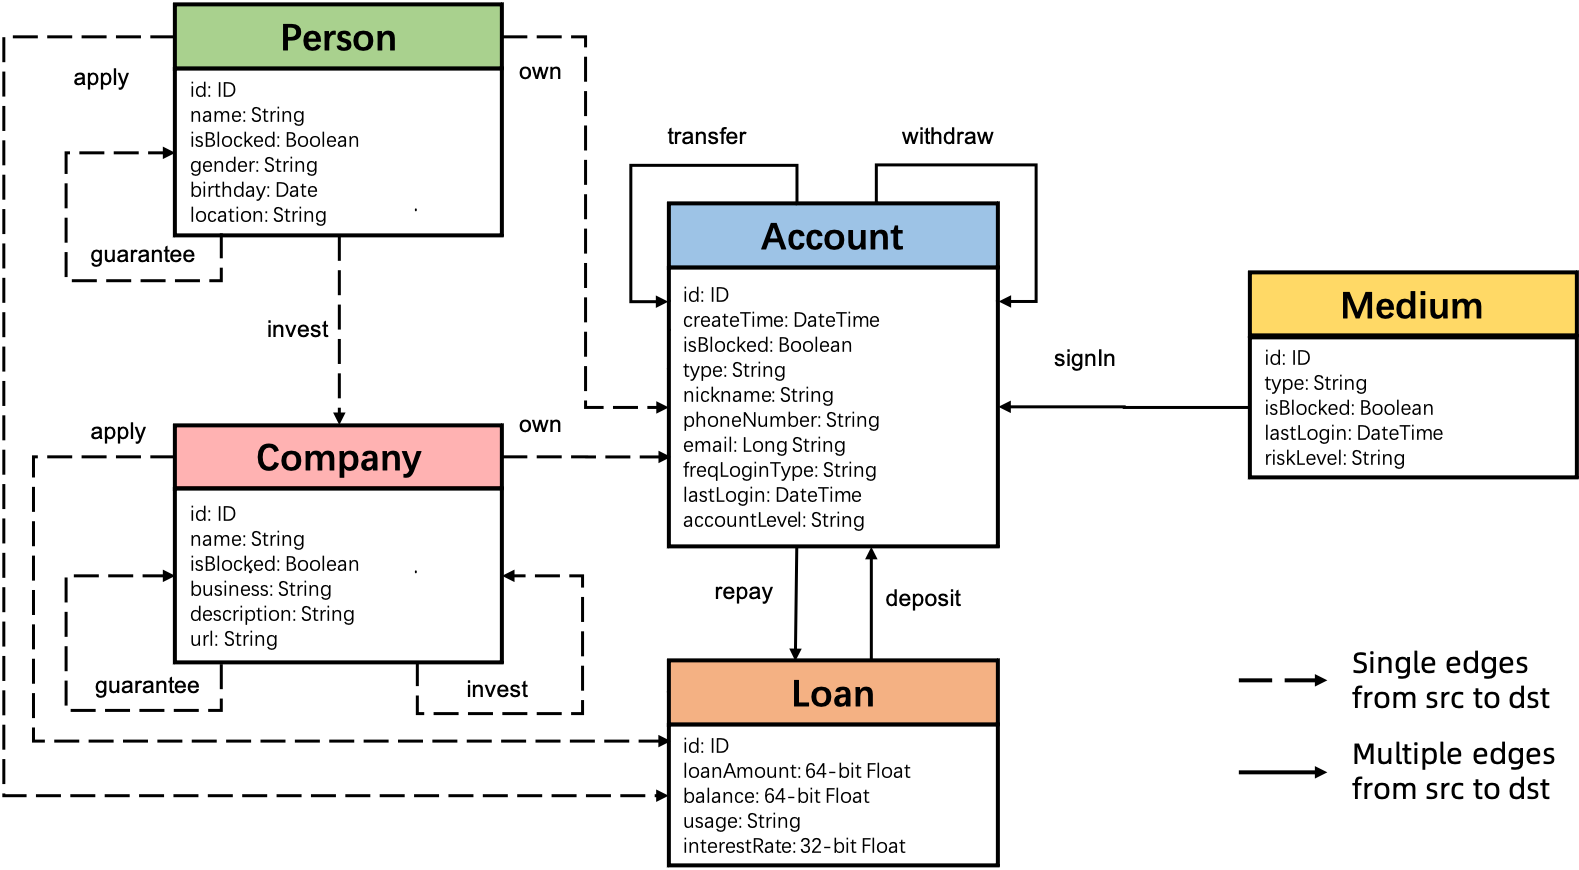
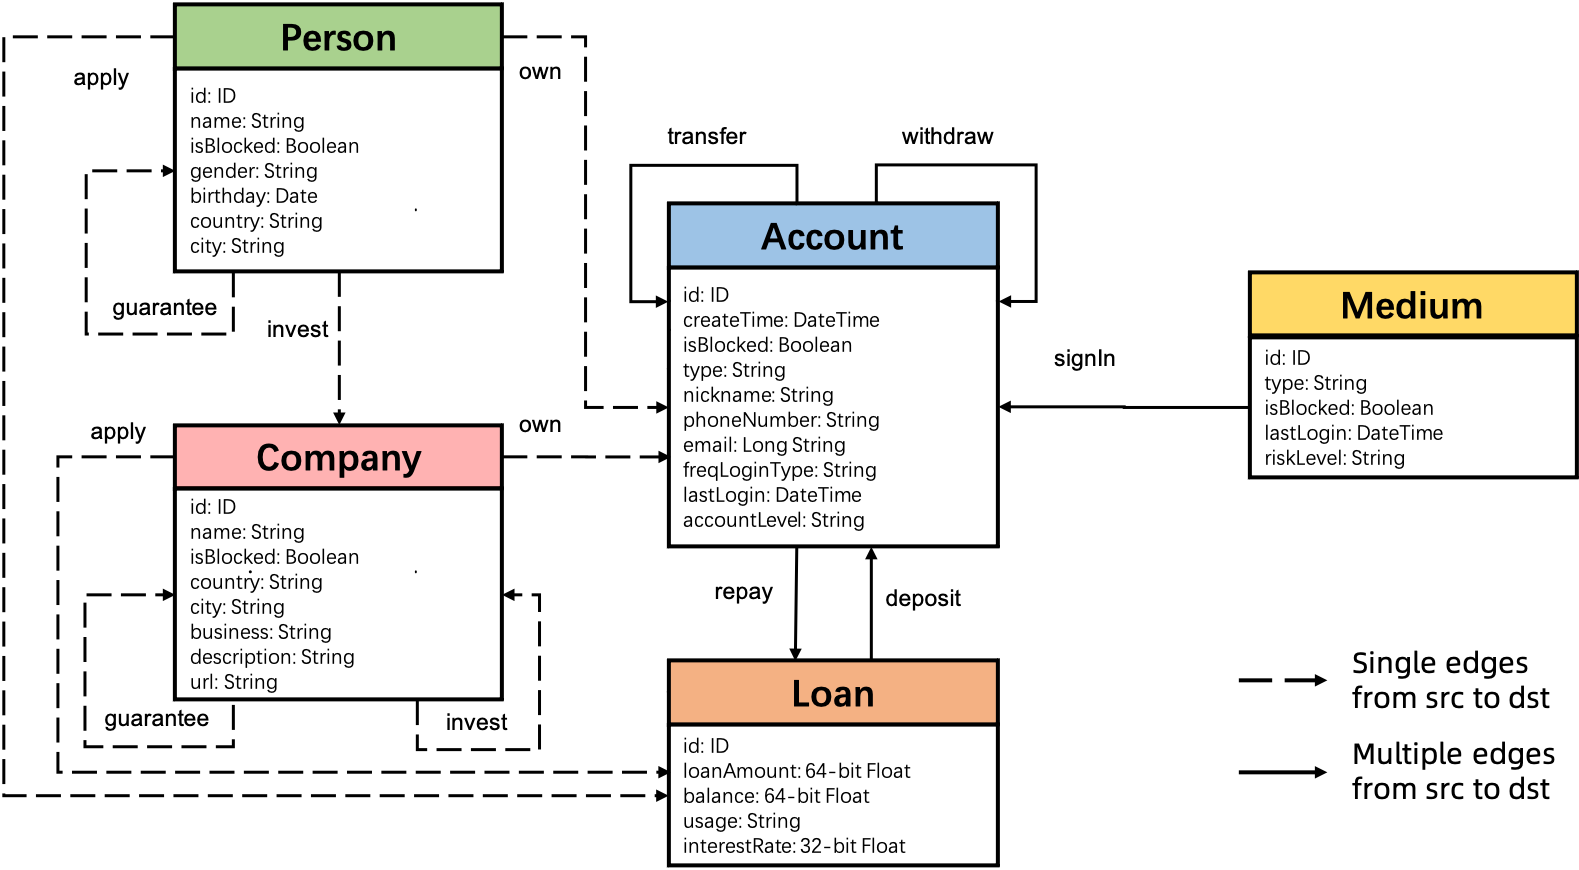
wip

diff --git a/data.tex b/data.tex
@@ -129,7 +129,9 @@ shows the attributes.
         \hline
         birthday                     & Date               & Birthday of the person           \\
         \hline
-        location                     & String             & Location of the person           \\
+        country                      & String             & Country of the person           \\
+        \hline
+        city                         & String             & City of the person           \\
         \hline
     \end{tabular}
     \caption{Attributes of Person entity.}
@@ -148,6 +150,10 @@ shows the attributes.
         name                         & String             & The name of the company.       \\
         \hline
         isBlocked                    & Boolean            & If the company is blocked or concerned in systems. \\
+        \hline
+        country                      & String             & Country of the company           \\
+        \hline
+        city                         & String             & City of the company           \\
         \hline
         business                     & String             & The main business of the company \\
         \hline
